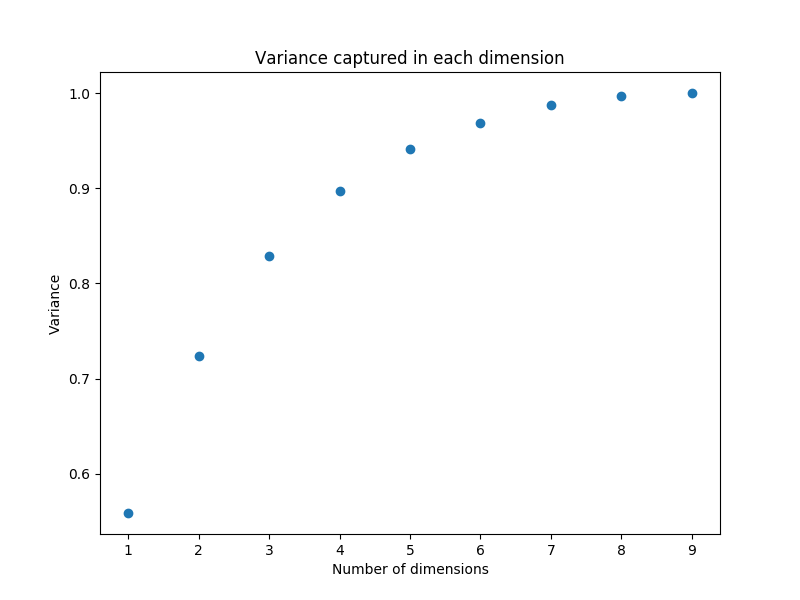
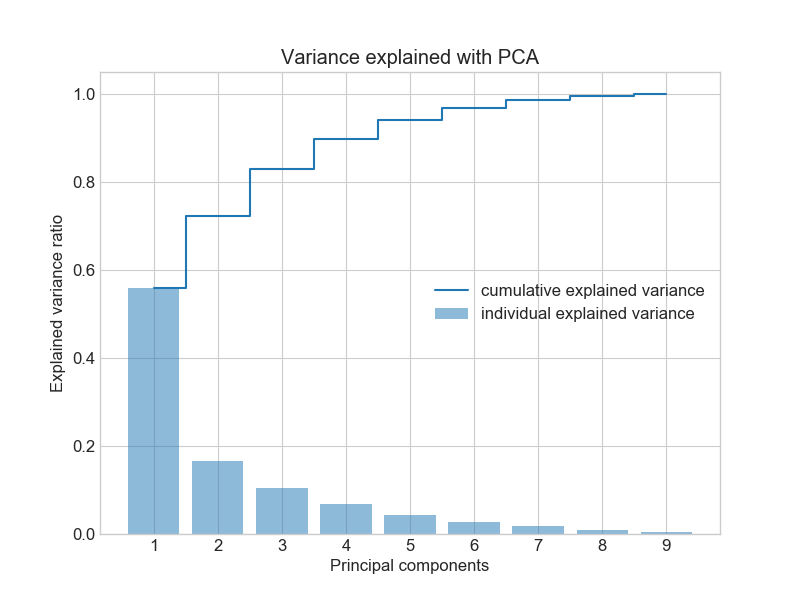
Partial log finished

diff --git a/scripts/pca.py b/scripts/pca.py
@@ -9,6 +9,10 @@ import pandas as pd
 
 
 def main():
+
+    plt.rcParams["figure.figsize"] = (25, 16)
+    plt.rcParams['font.size'] = 12.0
+
     show_plots = False
 
     df = read_data('df_data_pruned')
@@ -18,6 +22,7 @@ def main():
 
     df -= df.mean()
 
+    # PCA n_dim = 3
     fig = plt.figure(1, figsize=(8, 6))
     ax = Axes3D(fig, elev=-150, azim=110)
     pca = PCA(n_components=9, svd_solver='full')
@@ -31,13 +36,11 @@ def main():
     ax.w_yaxis.set_ticklabels([])
     ax.set_zlabel("3rd eigenvector")
     ax.w_zaxis.set_ticklabels([])
-    file_name = 'files/output_pca/PCA_3_dimension'
-    plt.savefig(file_name)
-    print('Graph %s saved.' % file_name)
     if show_plots:
         plt.show()
     plt.clf()
 
+    # PCA n_dim = 2
     fig = plt.figure(1, figsize=(8, 6))
     ax = Axes3D(fig, elev=-150, azim=110)
     ax.scatter(X_reduced[:, 0], X_reduced[:, 1],
@@ -48,13 +51,11 @@ def main():
     ax.set_ylabel("2nd eigenvector")
     ax.w_yaxis.set_ticklabels([])
     ax.w_zaxis.set_ticklabels([])
-    file_name = 'files/output_pca/PCA_2_dimension'
-    plt.savefig(file_name)
-    print('Graph %s saved.' % file_name)
     if show_plots:
         plt.show()
     plt.clf()
 
+    # PCA n_dim = 1
     fig = plt.figure(1, figsize=(8, 6))
     ax = Axes3D(fig, elev=-150, azim=110)
     y_new = np.zeros((len(X_reduced)), dtype=int)
@@ -65,44 +66,53 @@ def main():
     ax.w_xaxis.set_ticklabels([])
     ax.w_yaxis.set_ticklabels([])
     ax.w_zaxis.set_ticklabels([])
-    file_name = 'files/output_pca/PCA_1_dimension'
-    plt.savefig(file_name)
-    print('Graph %s saved.' % file_name)
     if show_plots:
         plt.show()
     plt.clf()
 
-    variance = pca.explained_variance_ratio_
-    num_dim = list(range(1, 10))
+    # Variance plot
+    with plt.style.context('seaborn-whitegrid'):
+        plt.bar(range(1, 10), pca.explained_variance_ratio_, alpha=0.5, align='center',
+                label='individual explained variance')
 
-    for i, j in enumerate(variance):
-        variance[i] = sum(variance[i - 1:i + 1]) if i > 0 else variance[i]
+        variance = pca.explained_variance_ratio_
+        for i, j in enumerate(variance):
+            variance[i] = sum(variance[i - 1:i + 1]) if i > 0 else variance[i]
 
-    plt.plot(num_dim, variance, 'o')
-    plt.title("Variance captured in each dimension")
-    plt.xlabel("Number of dimensions")
-    plt.ylabel("Variance")
-    file_name = 'files/output_pca/Variance'
-    plt.savefig(file_name)
-    print('Graph %s saved.' % file_name)
-    if show_plots:
-        plt.show()
-    plt.clf()
+        plt.step(range(1, 10), variance, where='mid',
+                 label='cumulative explained variance')
+
+        plt.xticks(range(1, 10))
+        plt.ylabel('Explained variance ratio')
+        plt.xlabel('Principal components')
+        plt.legend(loc='best')
+        plt.title('Variance explained with PCA')
+        plt.tight_layout()
+        if show_plots:
+            plt.show()
+
+        file_name = 'files/output_pca/Variance'
+        plt.savefig(file_name)
+        print('Graph %s saved.' % file_name)
+        plt.clf()
 
     # Creating dataframe with first, second and third components
-    data_comp = pd.DataFrame(X_reduced[:, 0:3], columns=['1st eigenvector', '2nd eigenvector', '3rd eigenvector'])
+    data_comp = pd.DataFrame(X_reduced[:, 0:3], columns=[
+                             '1st eigenvector', '2nd eigenvector', '3rd eigenvector'])
+
+    plots_path = 'files/output_pca/'
 
     for i, x in enumerate(data_comp):
         for j, y in enumerate(data_comp):
             if i < j and x != y:
                 data_comp.plot.hexbin(x=x, y=y, gridsize=25)
                 plt.title('Hexbin plot: ' + x + ' and ' + y)
-                #if show_plots:
-                plt.show()
-                #file_name = plots_path + x + '_' + y
-                #plt.savefig(file_name)
-                #plt.clf()
-                #print('Graph %s saved.' % file_name)
+                if show_plots:
+                    plt.show()
+                file_name = plots_path + x + '_' + y
+                plt.savefig(file_name)
+                plt.clf()
+                print('Graph %s saved.' % file_name)
 
 
 if __name__ == "__main__":

diff --git a/scripts/radar_chart.py b/scripts/radar_chart.py
@@ -2,44 +2,56 @@ import pandas as pd
 import numbers
 import matplotlib.pyplot as plt
 import numpy as np
+from modules.data import read_data, normalizes
 
-# =============================================================================
-# Parametros: dados => DataFrame Pandas com os dados
-#             titulo => titulo do grafico
-#             excluir => lista de campos que nao participam do plot
-#             rotulo => nome do campo que sera utilizado como rotulo de cada serie de dados (individuo/linha do DataFrame)
-# =============================================================================
 
-def radarplot(dados, titulo=None, excluir=None, rotulo=None):
-    candidatos = list(dados.columns)
-    dimensoes = []
-    for i,c in enumerate(candidatos):
-        if isinstance(dados.loc[0, c], numbers.Number):
-            if excluir is not None:
-                if c not in excluir:
-                    dimensoes.append(candidatos[i])
+def radarplot(data, file_name, title=None, exclude=None, label=None, show_plots=False):
+    plt.rcParams["figure.figsize"] = (25, 16)
+    plt.rcParams['font.size'] = 12.0
+
+    candidates = list(data.columns)
+    dimensions = []
+    for i, c in enumerate(candidates):
+        if isinstance(data.loc[0, c], numbers.Number):
+            if exclude is not None:
+                if c not in exclude:
+                    dimensions.append(candidates[i])
             else:
-                dimensoes.append(candidatos[i])
-                
-    dimensoes = np.array(dimensoes)
-    angulos = np.linspace(0, 2*np.pi, len(dimensoes), endpoint=False)
-    angulos = np.concatenate((angulos, [angulos[0]]))
-    
+                dimensions.append(candidates[i])
+
+    dimensions = np.array(dimensions)
+    angles = np.linspace(0, 2*np.pi, len(dimensions), endpoint=False)
+    angles = np.concatenate((angles, [angles[0]]))
+
     fig = plt.figure()
     ax = fig.add_subplot(111, polar=True)
-    for i in dados.index:
-        valores = dados[dimensoes].loc[i].values
-        valores = np.concatenate((valores, [valores[0]]))
-        ax.plot(angulos, valores, 'o-', linewidth=2, label=dados[rotulo].loc[i])
-        ax.fill(angulos, valores, alpha=0.25)
-    ax.set_thetagrids(angulos * 180/np.pi, dimensoes)
-    if titulo is not None:
-        ax.set_title(titulo)
+    for i in data.index:
+        values = data[dimensions].loc[i].values
+        values = np.concatenate((values, [values[0]]))
+        ax.plot(angles, values, 'o-', linewidth=2,
+                label=label[i])
+        ax.fill(angles, values, alpha=0.25)
+    ax.set_thetagrids(angles * 180/np.pi, dimensions)
+    if title is not None:
+        ax.set_title(title)
     ax.grid(True)
     plt.legend(loc='center left', bbox_to_anchor=(1.1, 0.5))
-    plt.show()
-    
+    if show_plots:
+        plt.show()
+    plt.savefig(file_name)
+    plt.clf()
+    print('Graph %s saved.' % file_name)
 
-xls = pd.ExcelFile('alunos.xlsx')
-dados = pd.read_excel(xls, 'Notas')
-radarplot(dados, titulo='Perfil dos Alunos', excluir=['Matrícula', 'Nota Final'], rotulo='Nome')
+
+_, _, data = read_data('k-means_experiments')
+
+for i in data:
+    type_experiment = i.split('_')[0]
+    if type_experiment == 'all' or type_experiment == 'kda':
+        data_norm = normalizes(data[i]['centroids'])[0]
+        columns = ['kills', 'deaths', 'assists', 'denies', 'gpm', 'hd', 'hh', 'lh',
+                   'xpm'] if type_experiment == 'all' else ['kills', 'deaths', 'assists']
+        df = pd.DataFrame(data_norm, columns=columns)
+        label = ['Centroid ' + str(x + 1) for x in range(len(data_norm))]
+        file_name = 'files/output_radar_chart/radar_plot_' + i
+        radarplot(df, file_name, title='Centroids of experiment ' + i, label=label)
